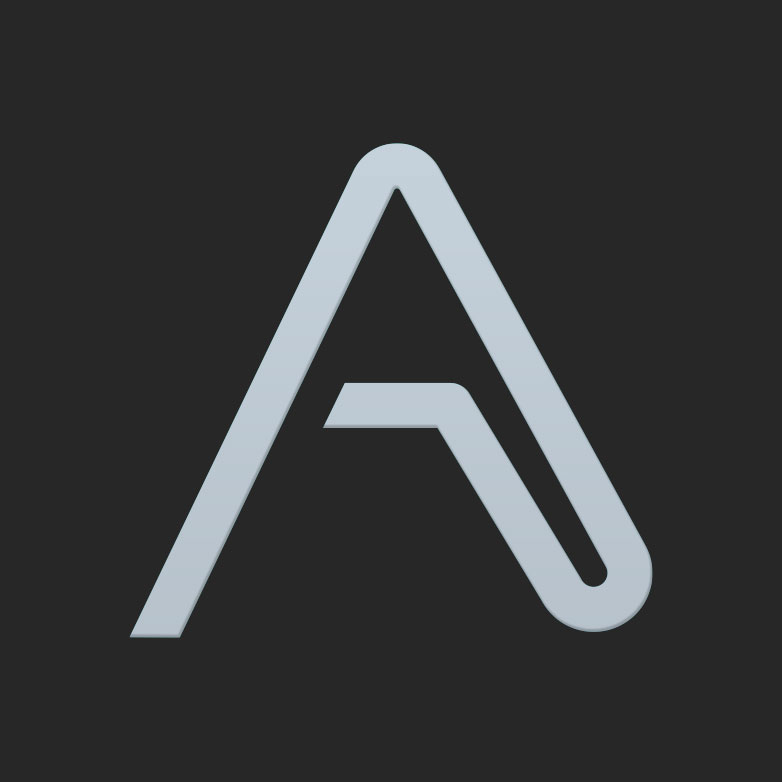
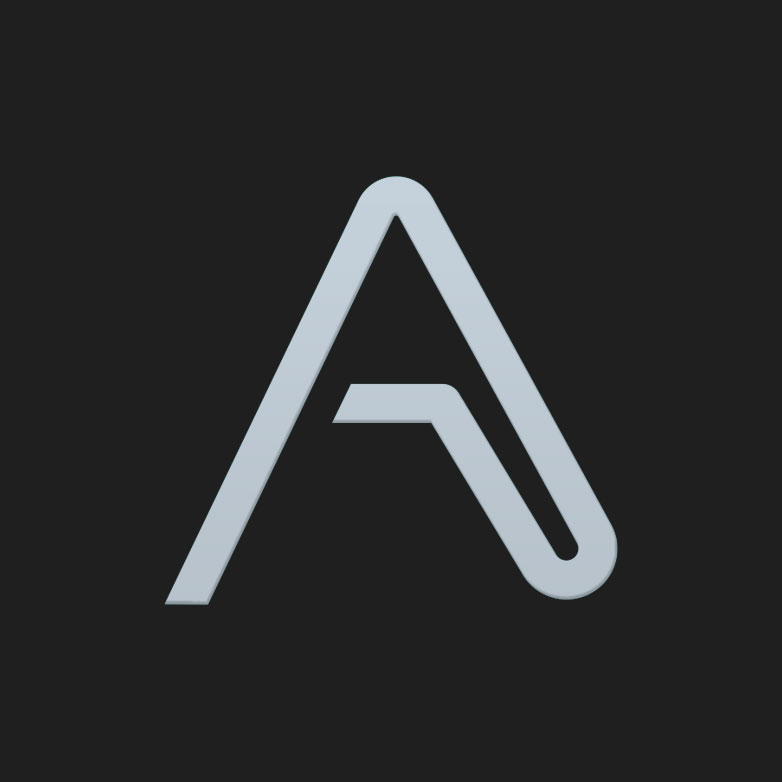
change dark color and fonts

diff --git a/index.html b/index.html
@@ -11,10 +11,7 @@
 		<link rel="shortcut icon" href="images/favicon.ico" type="image/x-icon">
 		<link rel="icon" href="images/favicon.ico" type="image/x-icon">
 		<link rel="preconnect" href="https://fonts.gstatic.com">
-		<link href="https://fonts.googleapis.com/css2?family=Work+Sans:ital,wght@0,300;0,500;0,700;1,400&display=swap" rel="stylesheet">
-		<link rel="preconnect" href="https://fonts.gstatic.com">
-		<link href="https://fonts.googleapis.com/css2?family=Rubik:ital,wght@0,300;0,500;0,700;1,400&display=swap" rel="stylesheet">
-		<link rel="preconnect" href="https://fonts.gstatic.com">
+<link href="https://fonts.googleapis.com/css2?family=Spectral:wght@300;500;700&display=swap" rel="stylesheet">
 		<link href="https://fonts.googleapis.com/css2?family=Karla:wght@300;400;600&display=swap" rel="stylesheet">
 		
 		
@@ -109,7 +106,7 @@
 				<br>
 				<p>I have a master's degree in Architecture and I love learning about all the styles created throughout history, but I have a soft spot for Rococo.</p>
 				<br>
-				<p>In my spare time I enjoy learning and practicing animation and 3D modelling, but also being outside, hiking or riding my bike.</p>
+				<p>In my spare time I enjoy learning and practicing digital illustration and animation, but also being outside, hiking or riding my bike.</p>
 			</div>
 			<img class="about-me-img" src="images/about-me.png" alt="">
 		</section>
@@ -146,7 +143,7 @@
 				</li>
 
 			</ul>
-			<span id="contact" class="copyright">© 2020 Adriana Sandu, All Rights Reserved.</span>
+			<span id="contact" class="copyright">© 2021 Adriana Sandu, All Rights Reserved.</span>
 		</footer>
 	
 	<script src="js/index.js"></script>

diff --git a/css/style.css b/css/style.css
@@ -10,15 +10,15 @@
 /* Declaring Custom Properties */
 
 :root{
-	--ff-primary: 'Rubik', sans-serif;
+	--ff-primary: 'Spectral', serif;
 	--ff-secondary: 'Karla', monospace;
 	
-	--fw-reg: 300;
+	--fw-reg: 400;
 	--fw-md: 500;
 	--fw-bold: 700;
 	
 	--clr-light: #fff;
-	--clr-dark: #272727;
+	--clr-dark: #1f1f1f;
 	--clr-accent: #c5d1db;
 	
 	--fs-h1: 3rem;
@@ -63,6 +63,7 @@ img {
 	display: block;
 	max-width: 100%;
 }
+
 
 button {
 	appearance: none;
@@ -115,6 +116,7 @@ h2 {
 h3 {
 	font-size: var(--fs-h3);
 }
+
 
 .section-title {
 	font-weight: var(--fw-md);
@@ -169,6 +171,7 @@ header {
 .logo {
 	max-width: 100px;
 }
+
 
 nav {
 	position: fixed;
@@ -286,7 +289,7 @@ nav {
 	}
 
 	.logo {
-		max-width: 120px;
+		max-width: 150px;
 	}
 }
 
@@ -301,12 +304,12 @@ nav {
 	z-index: 90;
 	font-size: var(--fs-h3);
 	background-color: var(--clr-light);
-	border: 2px solid var(--clr-accent);
+	border: 2px solid var(--clr-dark);
 }
 
 .scroll-icon {
 	padding: .35em .55em;
-	color: var(--clr-accent);
+	color: var(--clr-dark);
 }
 
 
@@ -508,7 +511,9 @@ footer {
 
 footer a {
 	color: inherit;
-	text-decoration: none;
+	text-decoration: underline;
+	font-family: var(--ff-secondary);
+	font-weight: var(--fw-bold);
 }
 
 .footer-link:hover,
